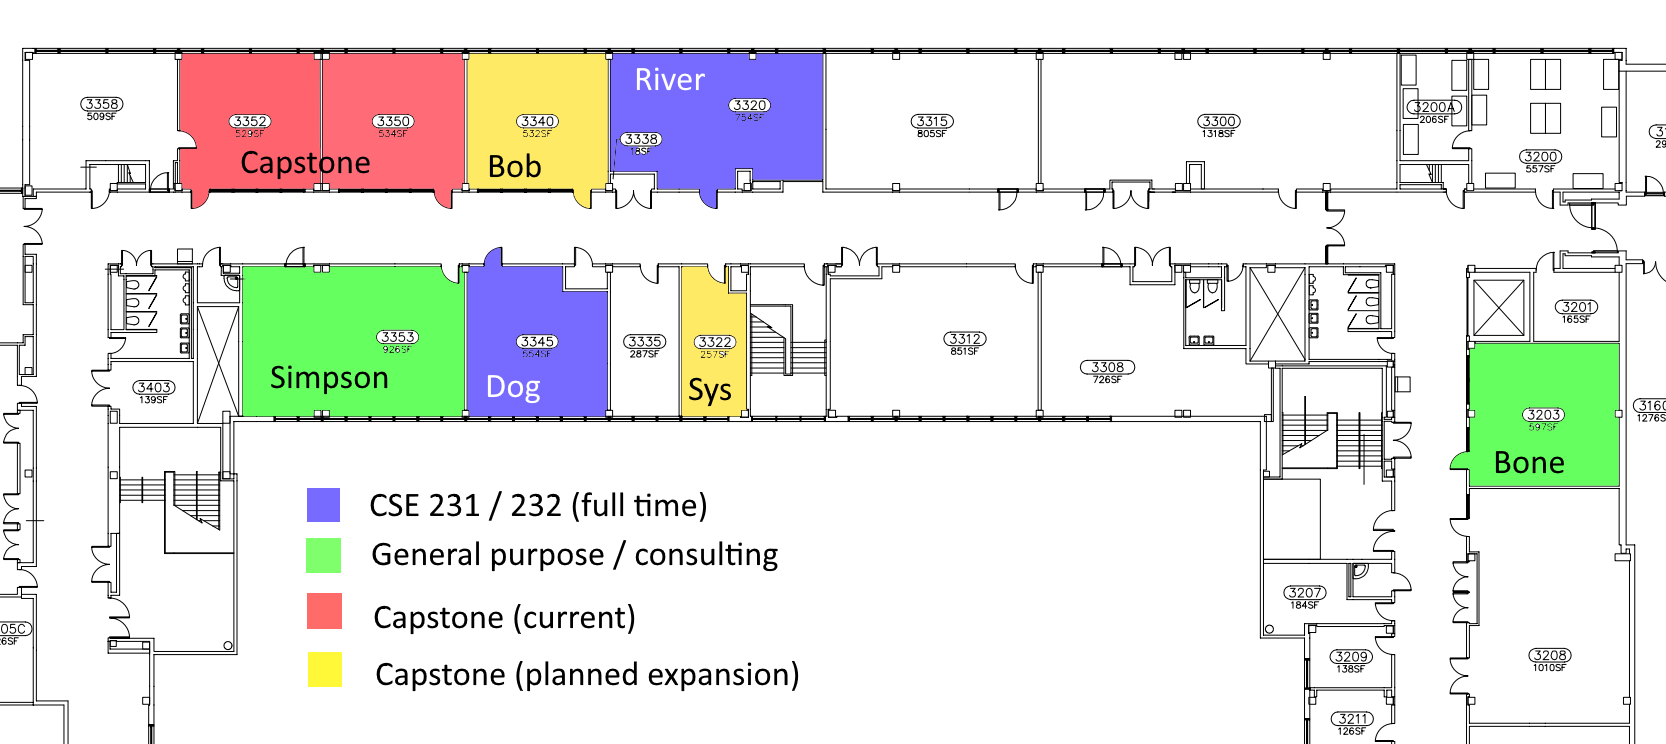
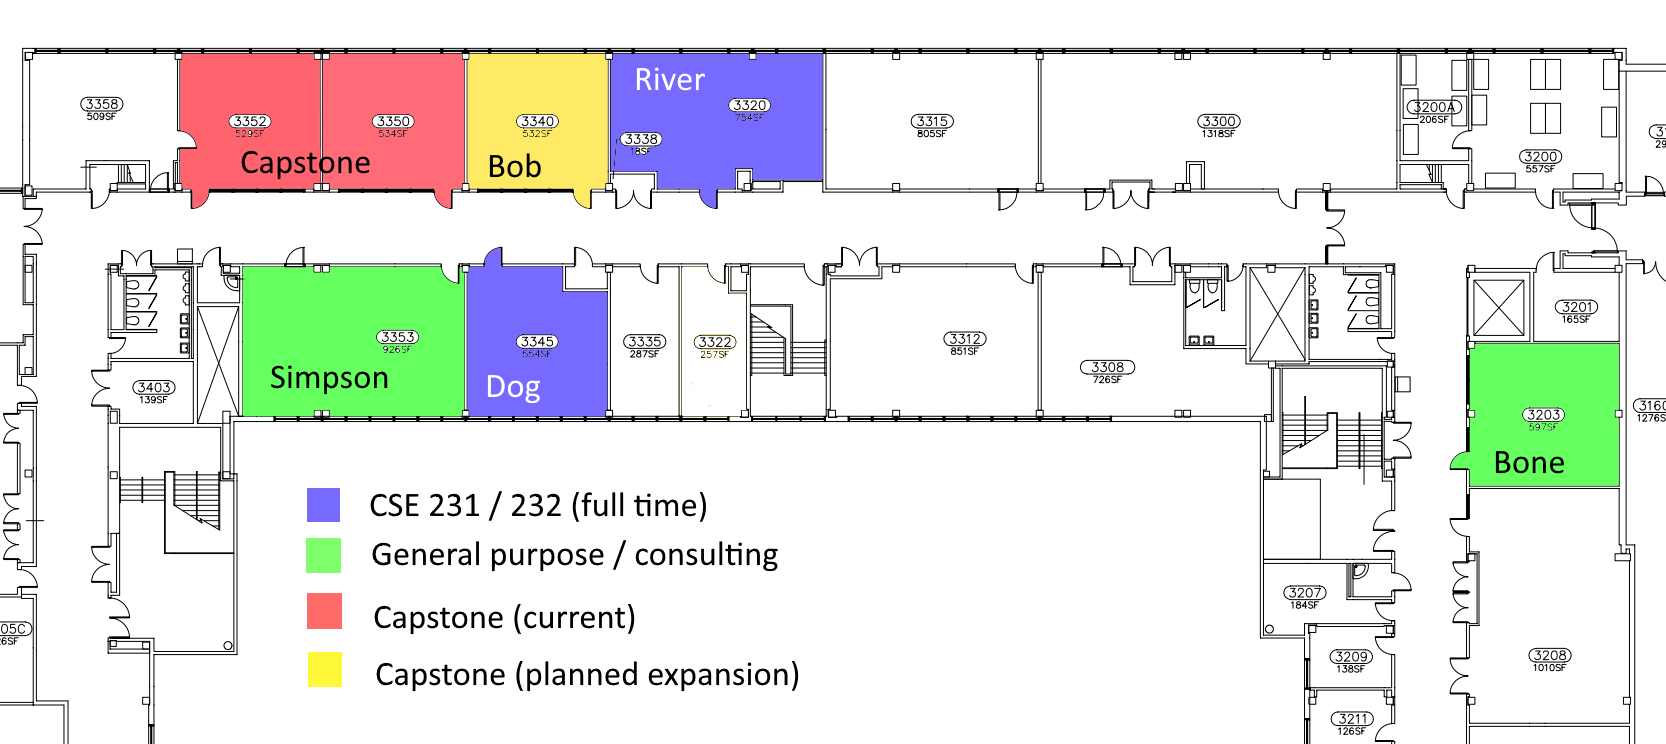
fixed bad data in capstone expansion

Changed region(s): [[0.4058, 0.3401, 0.4682, 0.5565]]

diff --git a/_posts/2017-09-22-lab-space-changes.md b/_posts/2017-09-22-lab-space-changes.md
@@ -7,7 +7,7 @@ categories: news
 
 ![lab changes diagram](/assets/capsone_expansion_diagram.png)
 
-CSE 498 (Capstone) has plans to expand into the Bob Lab (EB 3340) and the System Administrator office (EB 3322).
+CSE 498 (Capstone) has plans to expand into the Bob Lab (EB 3340).
 
 With CSE 232 in EB 3345 (Dog) and CSE 231 in EB 3320 (River) this will leave only EB 3203 (Bone) and EB 3353 (Simpson) as available labs.
 
